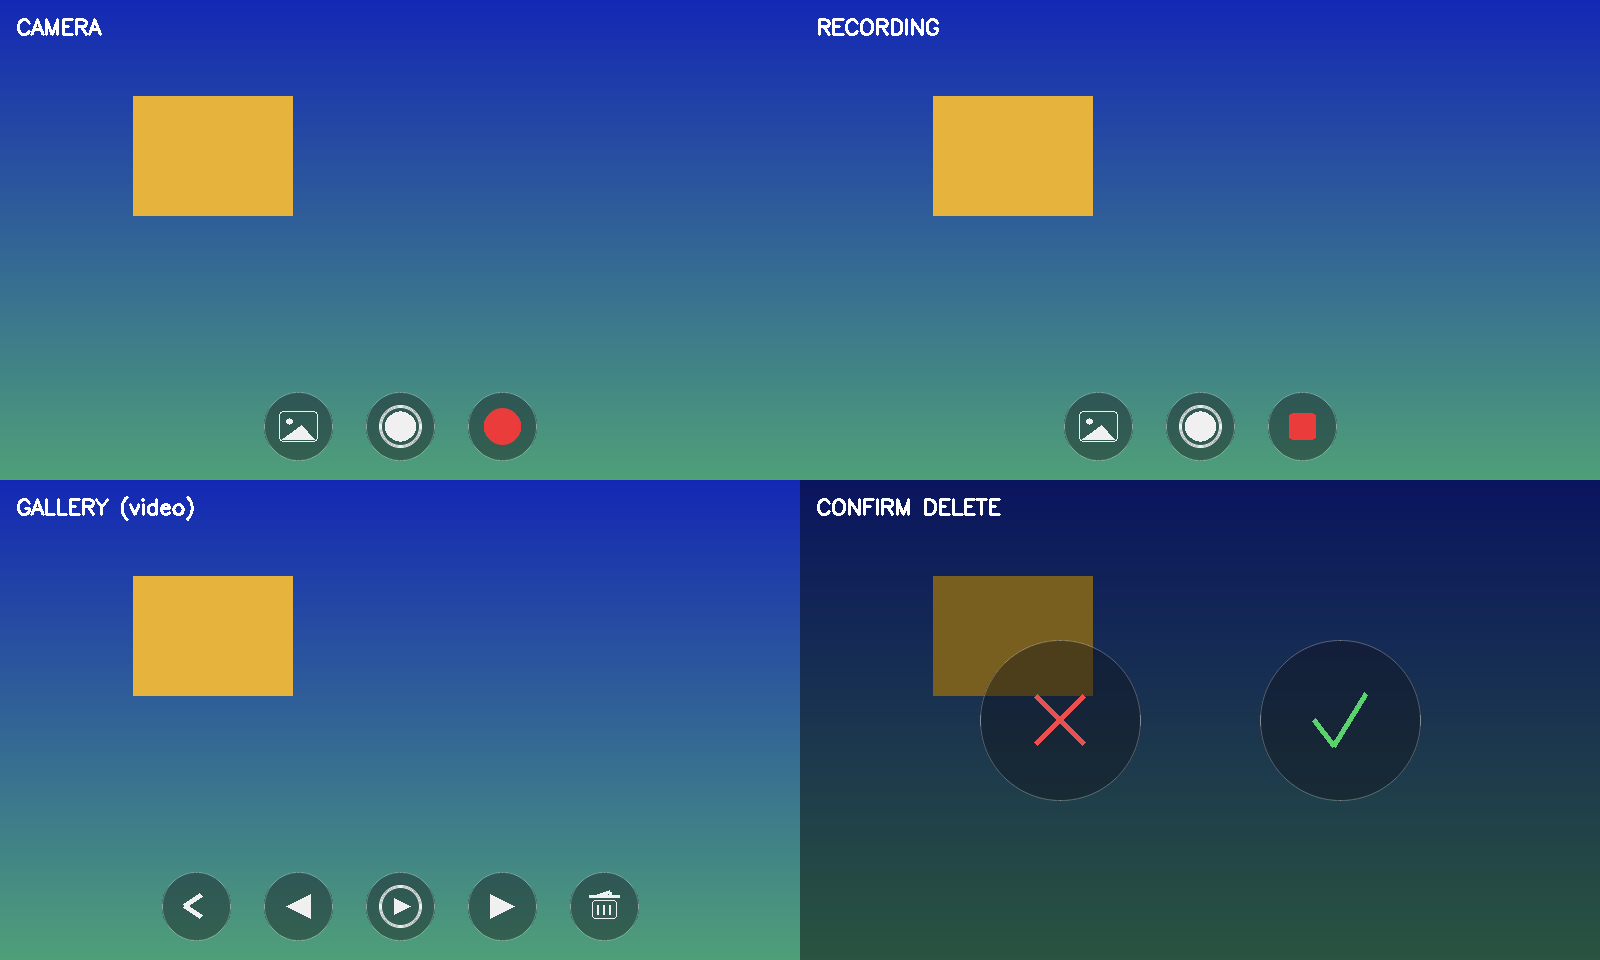
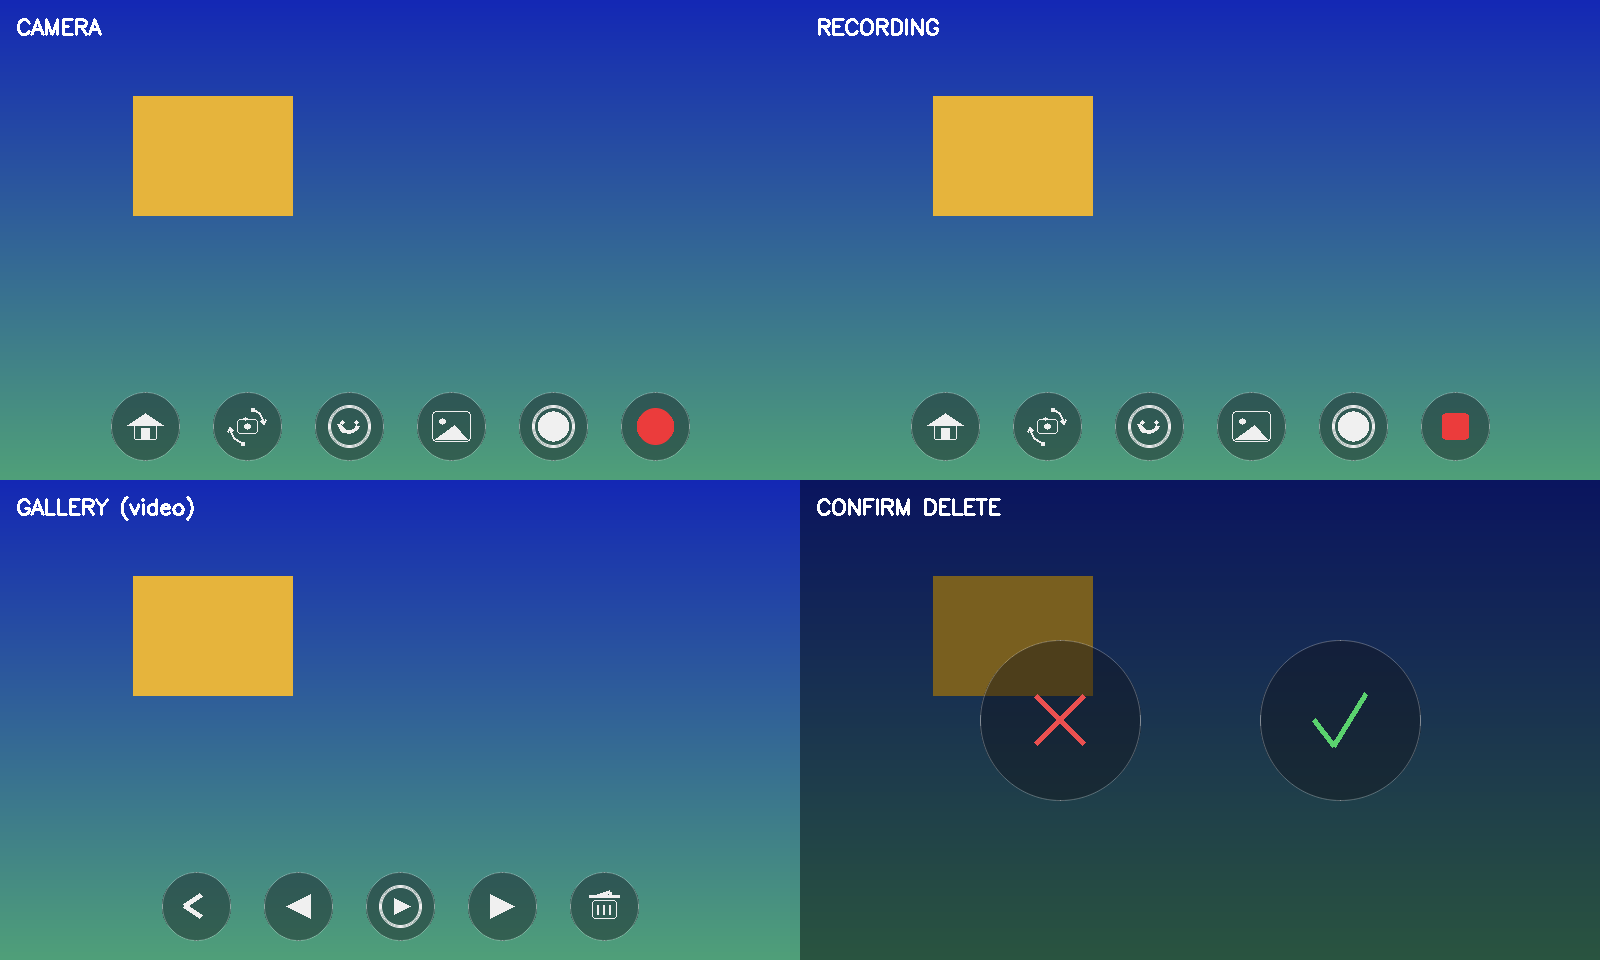
Add live toggle between the Pi camera and a USB camera
Introduce a switch-camera button in the live view so the source can be
flipped between the Raspberry Pi camera and a USB webcam without
restarting the app.

- types: add Action::SwitchCamera
- camera: track and expose the concrete CameraKind that was opened, so the
  toggle always knows which physical source is live (Auto is resolved)
- app: App::switchCamera() opens the other source into a temporary first and
  only swaps it in on success, so a failed switch (e.g. no USB camera) leaves
  the running camera untouched; it stops any in-progress recording, resets the
  digital zoom, and shows a brief on-screen banner naming the new source (or
  why the switch failed)
- ui: add the button to the camera menu row
- icons: draw a camera-wrapped-in-rotation-arrows glyph for the action
- docs: document the toggle and refresh the UI mockup image

Claude-Session: https://claude.ai/code/session_01QDRFD8Z6znfhw9GJ2DuR1z

Changed region(s): [[0.5625, 0.4062, 0.9375, 0.5], [0.0625, 0.4062, 0.4375, 0.5]]

diff --git a/src/app.cpp b/src/app.cpp
@@ -597,6 +597,9 @@ void App::dispatch(Action a) {
             filter_ = nextFilter(filter_);
             filterLabelUntil_ = SDL_GetTicks() + 1500;
             break;
+        case Action::SwitchCamera:
+            switchCamera();
+            break;
         case Action::StartCamera:
             mode_ = Mode::Camera;
             menu_.wake();
@@ -660,6 +663,43 @@ void App::toggleRecording() {
         if (recorder_.start(path, sz, cam_->fps(), cfg_.audio))
             std::cout << "recording -> " << path << "\n";
     }
+}
+
+// Flip the live source between the Pi camera and a USB webcam. The other source
+// is opened into a temporary first; only on success do we swap it in, so if the
+// target isn't present (e.g. no webcam plugged in) the running camera keeps
+// going. Any in-progress recording is stopped first -- it belongs to the old
+// source's geometry -- and the digital zoom resets since the new source may have
+// a different resolution.
+void App::switchCamera() {
+    if (!cam_) return;
+    if (recorder_.recording()) {
+        recorder_.stop();
+        refreshThumbnail();
+    }
+
+    CameraKind target = (cam_->kind() == CameraKind::PiCam) ? CameraKind::Webcam
+                                                            : CameraKind::PiCam;
+    Config c = cfg_;
+    c.camera = target;
+    std::unique_ptr<Camera> next = Camera::open(c);
+
+    cameraLabelUntil_ = SDL_GetTicks() + 1800;
+    if (!next) {
+        cameraLabel_ = (target == CameraKind::Webcam) ? "NO USB CAMERA"
+                                                      : "NO PI CAMERA";
+        std::cerr << "camera switch to "
+                  << (target == CameraKind::Webcam ? "webcam" : "picam")
+                  << " failed; keeping current source\n";
+        return;
+    }
+
+    cam_ = std::move(next);
+    lastNative_.release();      // old-format frame no longer matches the new source
+    cameraLabel_ = (cam_->kind() == CameraKind::PiCam) ? "PI CAMERA" : "USB CAMERA";
+    std::cout << "camera: switched to " << cam_->description() << " "
+              << cam_->width() << "x" << cam_->height() << " @ " << cam_->fps()
+              << "fps\n";
 }
 
 // Blocking playback of the selected video: renders frames at the source fps and
@@ -882,6 +922,20 @@ void App::renderCamera() {
                        viewW_ / 2 + tw / 2 + pad, y + 8 * scale + pad,
                        6, 0, 0, 0, 120);
         drawText(viewW_ / 2, y + pad / 2, name, scale, {255, 255, 255, 240}, true);
+    }
+
+    // Source name banner, shown briefly after tapping the switch-camera button.
+    // Sits below the filter banner so the two never overlap.
+    if (now < cameraLabelUntil_ && !cameraLabel_.empty()) {
+        int scale = std::max(2, viewH_ / 200);
+        int tw = 8 * (int)cameraLabel_.size() * scale;
+        int pad = 8 * scale / 2;
+        int y = viewH_ / 6 + 8 * scale + 2 * pad;
+        roundedBoxRGBA(ren_, viewW_ / 2 - tw / 2 - pad, y,
+                       viewW_ / 2 + tw / 2 + pad, y + 8 * scale + pad,
+                       6, 0, 0, 0, 120);
+        drawText(viewW_ / 2, y + pad / 2, cameraLabel_, scale,
+                 {255, 255, 255, 240}, true);
     }
 
     // Shutter flash: a quick white wash that fades out after a capture.

diff --git a/src/icons.cpp b/src/icons.cpp
@@ -130,6 +130,45 @@ void iconFilter(SDL_Renderer* r, int cx, int cy, int rad, Uint8 a) {
     }
 }
 
+// Switch-camera icon: a small camera body wrapped by two curved arrows, the
+// familiar "flip / swap camera source" glyph. Used to toggle between the Pi
+// camera and a USB webcam at runtime.
+void iconSwitchCamera(SDL_Renderer* r, int cx, int cy, int rad, Uint8 a) {
+    Uint8 c = mod(kFg, a);
+    // Compact camera body in the centre.
+    int w = (int)(rad * 0.5), h = (int)(rad * 0.34);
+    int top = cy - h + (int)(rad * 0.04);
+    roundedBoxRGBA(r, cx - (int)(w * 0.42), top - (int)(rad * 0.14),
+                   cx - (int)(w * 0.06), top + 1, 2, c, c, c, a);
+    roundedRectangleRGBA(r, cx - w, top, cx + w, cy + h, 3, c, c, c, a);
+    filledCircleRGBA(r, cx, cy + (int)(rad * 0.02), std::max(2, (int)(rad * 0.16)),
+                     c, c, c, a);
+    // Two rotation arrows arcing around the body (top-right and bottom-left),
+    // approximated by short chords with a chevron arrowhead at each end.
+    double R = rad * 0.86;
+    auto arc = [&](double a0, double a1) {
+        int px = cx + (int)(R * std::cos(a0));
+        int py = cy + (int)(R * std::sin(a0));
+        for (double t = a0; t <= a1; t += 0.25) {
+            int nx = cx + (int)(R * std::cos(t));
+            int ny = cy + (int)(R * std::sin(t));
+            thickLineRGBA(r, px, py, nx, ny, 2, c, c, c, a);
+            px = nx;
+            py = ny;
+        }
+        // Arrowhead at the arc's end, pointing tangentially.
+        double tan = a1 + 1.5708; // +90deg = travel direction
+        int ex = cx + (int)(R * std::cos(a1)), ey = cy + (int)(R * std::sin(a1));
+        int hl = std::max(3, (int)(rad * 0.26));
+        thickLineRGBA(r, ex, ey, ex + (int)(hl * std::cos(tan - 2.4)),
+                      ey + (int)(hl * std::sin(tan - 2.4)), 2, c, c, c, a);
+        thickLineRGBA(r, ex, ey, ex + (int)(hl * std::cos(tan + 2.4)),
+                      ey + (int)(hl * std::sin(tan + 2.4)), 2, c, c, c, a);
+    };
+    arc(-1.25, -0.15); // upper-right arrow
+    arc(1.89, 2.99);   // lower-left arrow (opposite side)
+}
+
 // Little camera silhouette: the "start camera" button on the welcome screen.
 void iconCamera(SDL_Renderer* r, int cx, int cy, int rad, Uint8 a) {
     Uint8 c = mod(kFg, a);
@@ -221,6 +260,7 @@ void drawIcon(SDL_Renderer* ren, Action action, int cx, int cy, int r,
         case Action::ConfirmYes:  iconCheck(ren, cx, cy, r, alpha); break;
         case Action::ConfirmNo:   iconCross(ren, cx, cy, r, alpha); break;
         case Action::CycleFilter: iconFilter(ren, cx, cy, r, alpha); break;
+        case Action::SwitchCamera: iconSwitchCamera(ren, cx, cy, r, alpha); break;
         case Action::StartCamera: iconCamera(ren, cx, cy, r, alpha); break;
         case Action::Sleep:       iconMoon(ren, cx, cy, r, alpha); break;
         case Action::Home:        iconHouse(ren, cx, cy, r, alpha); break;

diff --git a/src/camera.cpp b/src/camera.cpp
@@ -90,6 +90,7 @@ std::unique_ptr<Camera> Camera::open(const Config& cfg) {
         if (cam->cap_.read(probe) && !probe.empty() && probe.channels() == 1 &&
             probe.rows % 3 == 0) {
             cam->format_ = PixelFormat::NV12;
+            cam->kind_ = CameraKind::PiCam;
             cam->width_ = probe.cols;
             cam->height_ = probe.rows * 2 / 3; // strip the interleaved UV plane
             cam->desc_ = "Pi camera (libcamera, NV12 -> GPU convert)";
@@ -110,6 +111,7 @@ std::unique_ptr<Camera> Camera::open(const Config& cfg) {
             cv::Mat probe;
             if (cam->cap_.read(probe) && !probe.empty()) {
                 cam->format_ = PixelFormat::BGR;
+                cam->kind_ = CameraKind::PiCam;
                 cam->desc_ = std::string("Pi camera (libcamera, ") + fmt +
                              " -> CPU convert)";
                 return true;
@@ -126,6 +128,7 @@ std::unique_ptr<Camera> Camera::open(const Config& cfg) {
 
     auto openWebcam = [&]() -> bool {
         cam->format_ = PixelFormat::BGR;
+        cam->kind_ = CameraKind::Webcam;
         if (cfg.webcamIndex >= 0) {
             if (!tryWebcam(cam->cap_, cfg.webcamIndex, cfg.width, cfg.height)) return false;
             cam->desc_ = "USB webcam /dev/video" + std::to_string(cfg.webcamIndex);

diff --git a/src/app.hpp b/src/app.hpp
@@ -70,6 +70,10 @@ private:
     // --- actions ---
     void capturePhoto();
     void toggleRecording();
+    // Toggle the live source between the Pi camera and a USB webcam. Opens the
+    // other source before dropping the current one, so a failed switch (e.g. no
+    // USB camera plugged in) leaves the running camera untouched.
+    void switchCamera();
     void playCurrentVideo();
     void goHome();          // leave the camera for the welcome screen
     void enterSleep();      // blank the screen (and power the panel off on a Pi)
@@ -121,6 +125,11 @@ private:
     Filter filter_ = Filter::None;
     double filterPhase_ = 0.0;      // free-running counter for tear animation
     Uint32 filterLabelUntil_ = 0;   // show the filter name briefly after a change
+
+    // Brief on-screen banner naming the source after a camera switch (or the
+    // reason a switch failed).
+    std::string cameraLabel_;
+    Uint32 cameraLabelUntil_ = 0;
 
     cv::Mat lastNative_;       // most recent live frame, camera-native format
     cv::Mat filteredNative_;   // NV12 copy with the face region reshaped in place

diff --git a/src/ui.cpp b/src/ui.cpp
@@ -61,10 +61,10 @@ std::vector<Button> Menu::layout(Mode mode, int sw, int sh, bool hasVideo) const
                     {Action::Sleep, sw / 2 + dx, y, r}};
         }
         case Mode::Camera:
-            // Zoom is pinch-to-zoom (two fingers), so the row is home / filter /
-            // gallery / shutter / record.
-            return row({Action::Home, Action::CycleFilter, Action::OpenGallery,
-                        Action::Shutter, Action::Record},
+            // Zoom is pinch-to-zoom (two fingers), so the row is home / switch
+            // camera / filter / gallery / shutter / record.
+            return row({Action::Home, Action::SwitchCamera, Action::CycleFilter,
+                        Action::OpenGallery, Action::Shutter, Action::Record},
                        sw, sh);
         case Mode::Gallery: {
             std::vector<Action> a = {Action::Back, Action::Prev};

diff --git a/src/camera.hpp b/src/camera.hpp
@@ -77,11 +77,17 @@ public:
     double fps() const { return fps_; }
     const std::string& description() const { return desc_; }
 
+    // The concrete source that was actually opened. Never Auto: open() resolves
+    // Auto to whichever backend started, so callers (e.g. the runtime toggle)
+    // always know which physical camera is live.
+    CameraKind kind() const { return kind_; }
+
 private:
     Camera() = default;
 
     cv::VideoCapture cap_;
     PixelFormat format_ = PixelFormat::BGR;
+    CameraKind kind_ = CameraKind::Webcam;
     int width_ = 0;
     int height_ = 0;
     double fps_ = 30.0;

diff --git a/src/types.hpp b/src/types.hpp
@@ -30,6 +30,7 @@ enum class Action {
     ConfirmYes,  // confirm deletion
     ConfirmNo,   // cancel deletion
     CycleFilter, // cycle the live facial-expression filter
+    SwitchCamera,// toggle between the Pi camera and a USB webcam
     StartCamera, // welcome -> live camera
     Sleep,       // welcome -> blank the screen (display sleep)
     Home,        // camera -> welcome screen

diff --git a/README.md b/README.md
@@ -4,7 +4,10 @@ A touch-friendly, **icon-only** camera app for the **Raspberry Pi Zero 2 W**
 (or any Linux box with a webcam), written in **C++17**.
 
 - Works with the **Raspberry Pi camera module** (via libcamera / GStreamer) or
-  any **USB webcam** (via V4L2) — auto-detected at startup.
+  any **USB webcam** (via V4L2) — auto-detected at startup, and switchable
+  **live** with the **switch-camera** button (the two-arrows-around-a-camera
+  icon) so you can flip between the Pi camera and a USB camera without
+  restarting.
 - Runs on a **headless Raspberry Pi** with **no desktop, X11 or Wayland** — it
   draws straight to the **HDMI** output through DRM/KMS (SDL2's `kmsdrm`
   driver, selected automatically).
@@ -16,7 +19,8 @@ A touch-friendly, **icon-only** camera app for the **Raspberry Pi Zero 2 W**
 - Fullscreen live preview with a **translucent, auto-hiding menu**: a few
   seconds after your last tap the menu fades away; tap anywhere to bring it
   back.
-- Menu buttons are **translucent icons, no text**: gallery, shutter, record.
+- Menu buttons are **translucent icons, no text**: home, switch-camera, filter,
+  gallery, shutter, record.
 - **Pinch-to-zoom** with two fingers (digital, up to 4×); the magnification
   factor (e.g. `2.0x`) shows briefly while zooming.
 - A **shutter-flash animation** plays when a photo is taken, and the **gallery
@@ -46,7 +50,7 @@ A touch-friendly, **icon-only** camera app for the **Raspberry Pi Zero 2 W**
 | Requirement | How |
 | --- | --- |
 | Welcome screen with a Lego-brick camera; Start / Sleep options | `Mode::Welcome` draws `drawLegoCamera` (bricks + lens in `icons.cpp`); Sleep blanks the panel via `vcgencmd display_power` and wakes on a double-tap |
-| Runs with a webcam **or** Pi camera | `Camera` auto-detects: libcamera (GStreamer) first, then V4L2 webcam |
+| Runs with a webcam **or** Pi camera | `Camera` auto-detects: libcamera (GStreamer) first, then V4L2 webcam; the switch-camera button toggles between the two at runtime (`App::switchCamera`) |
 | Written in C++ | C++17, CMake build |
 | Translucent, auto-hiding menu | `Menu` fades the icon row out ~3.5 s after the last tap; any tap wakes it |
 | Photos, video **with audio**, zoom, gallery, delete | shutter / record / gallery icons; pinch-to-zoom; `arecord`+`ffmpeg` mux audio |
@@ -132,12 +136,22 @@ convert.
 
 If you have **more than one camera** (e.g. the IMX500 *and* a USB webcam),
 `--camera auto` tries the first libcamera camera before falling back to a
-webcam. Force a source explicitly with `--camera picam` / `--camera webcam`,
-and pick a specific libcamera camera with `--picam-name` — list the ids with:
+webcam. Force the *starting* source explicitly with `--camera picam` /
+`--camera webcam`, and pick a specific libcamera camera with `--picam-name` —
+list the ids with:
 
 ```sh
 rpicam-hello --list-cameras
 ```
+
+With both a Pi camera and a USB camera connected you don't have to choose up
+front: tap the **switch-camera** button in the live view to flip between them at
+any time. The app opens the *other* source before releasing the current one, so
+if the target isn't present (e.g. no USB camera plugged in) the running camera
+keeps going and a brief **`NO USB CAMERA`** / **`NO PI CAMERA`** banner explains
+why nothing changed. A successful switch shows the new source's name
+(**`PI CAMERA`** / **`USB CAMERA`**), resets the digital zoom, and stops any
+in-progress recording (its video belongs to the old source's resolution).
 
 Sanity-check the raw pipeline outside the app with:
 
@@ -181,7 +195,7 @@ build/open-lego-camera [options]
 
 ### Facial filters
 
-Tap the **smiley** button (bottom-left in the camera view) to cycle the live
+Tap the **smiley** button in the camera menu to cycle the live
 facial filter: **Big Smile** → **Crying** → off. The active filter's name
 appears briefly on screen, and the effect is baked into any photo or video you
 then capture.
